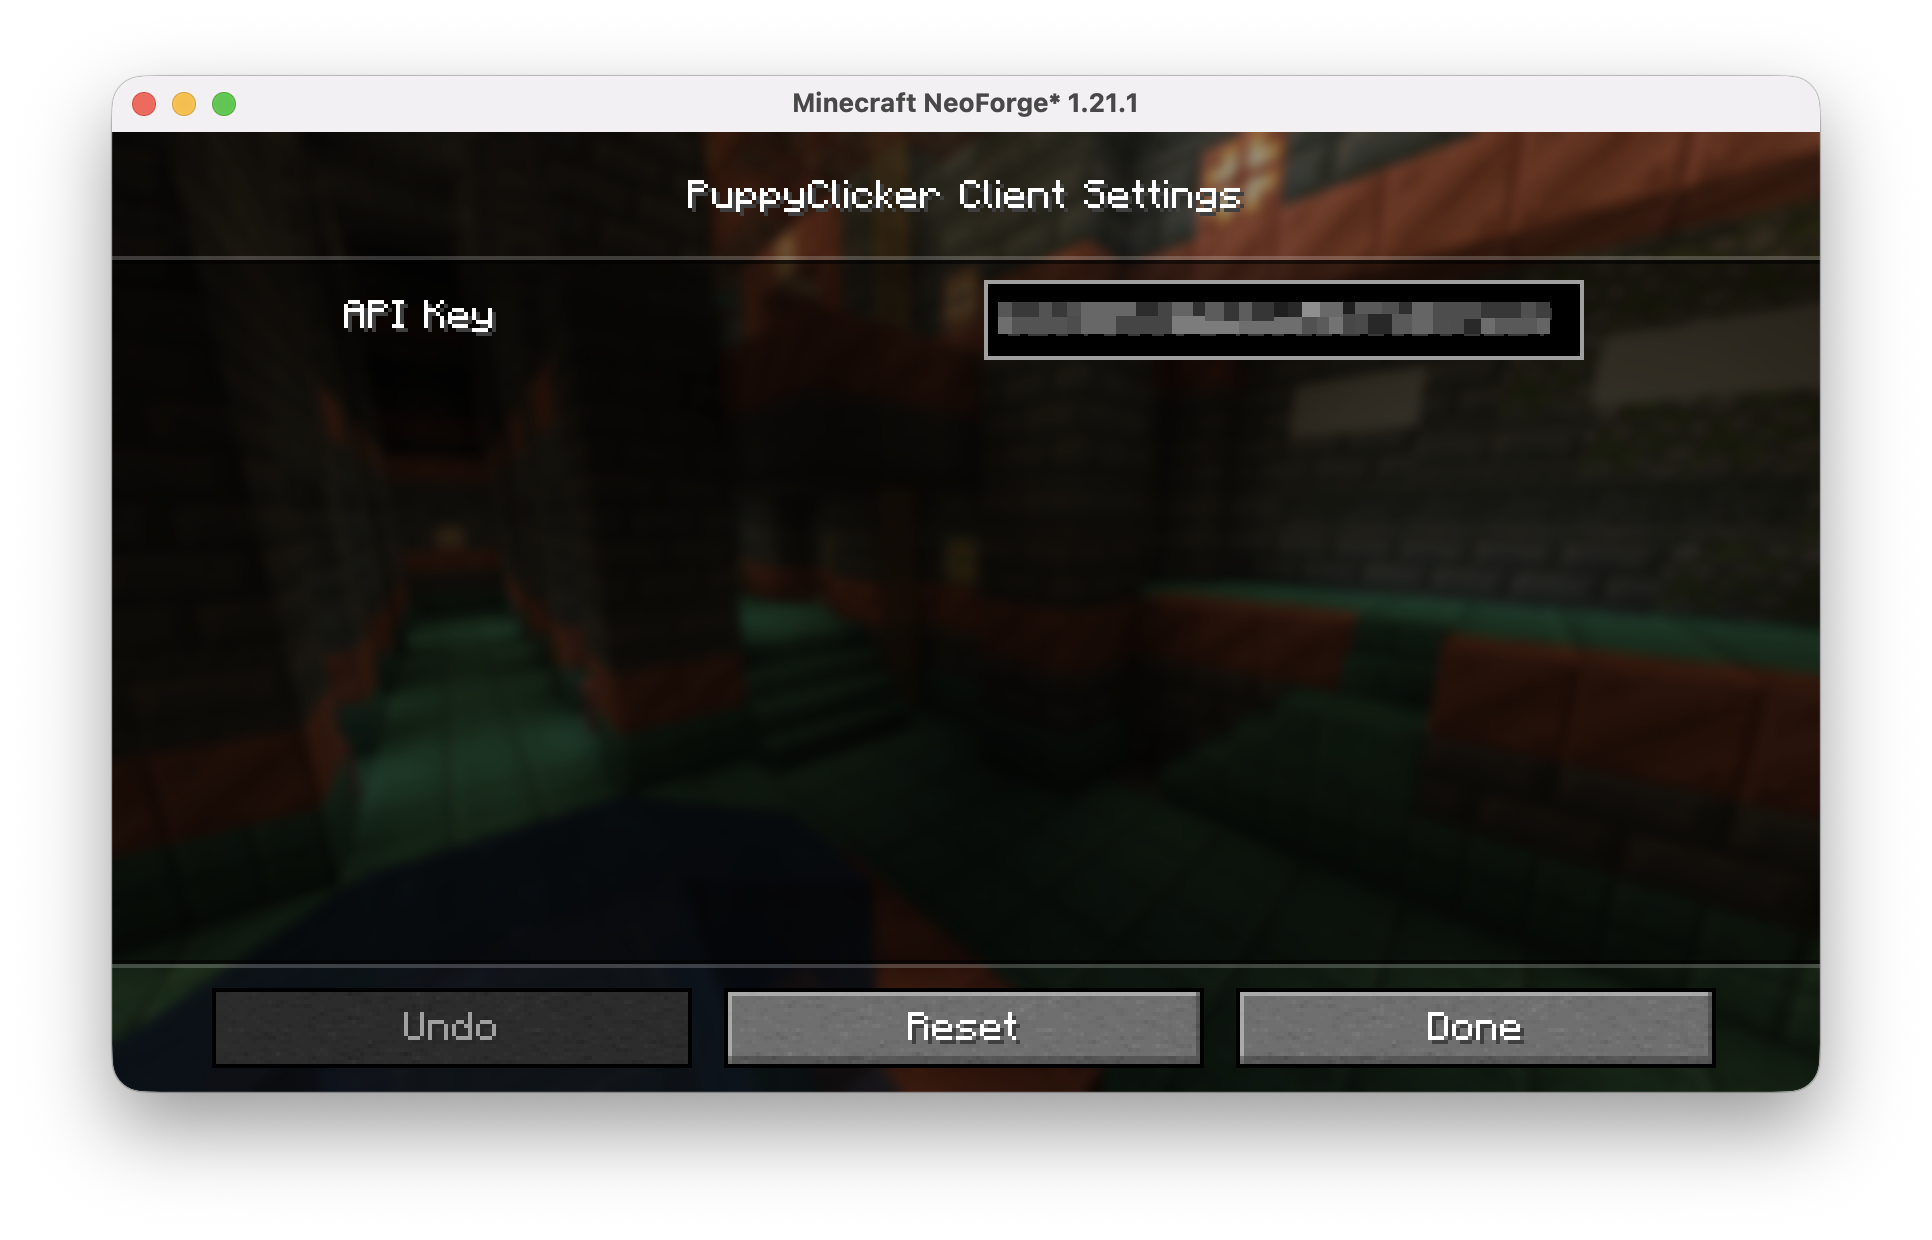
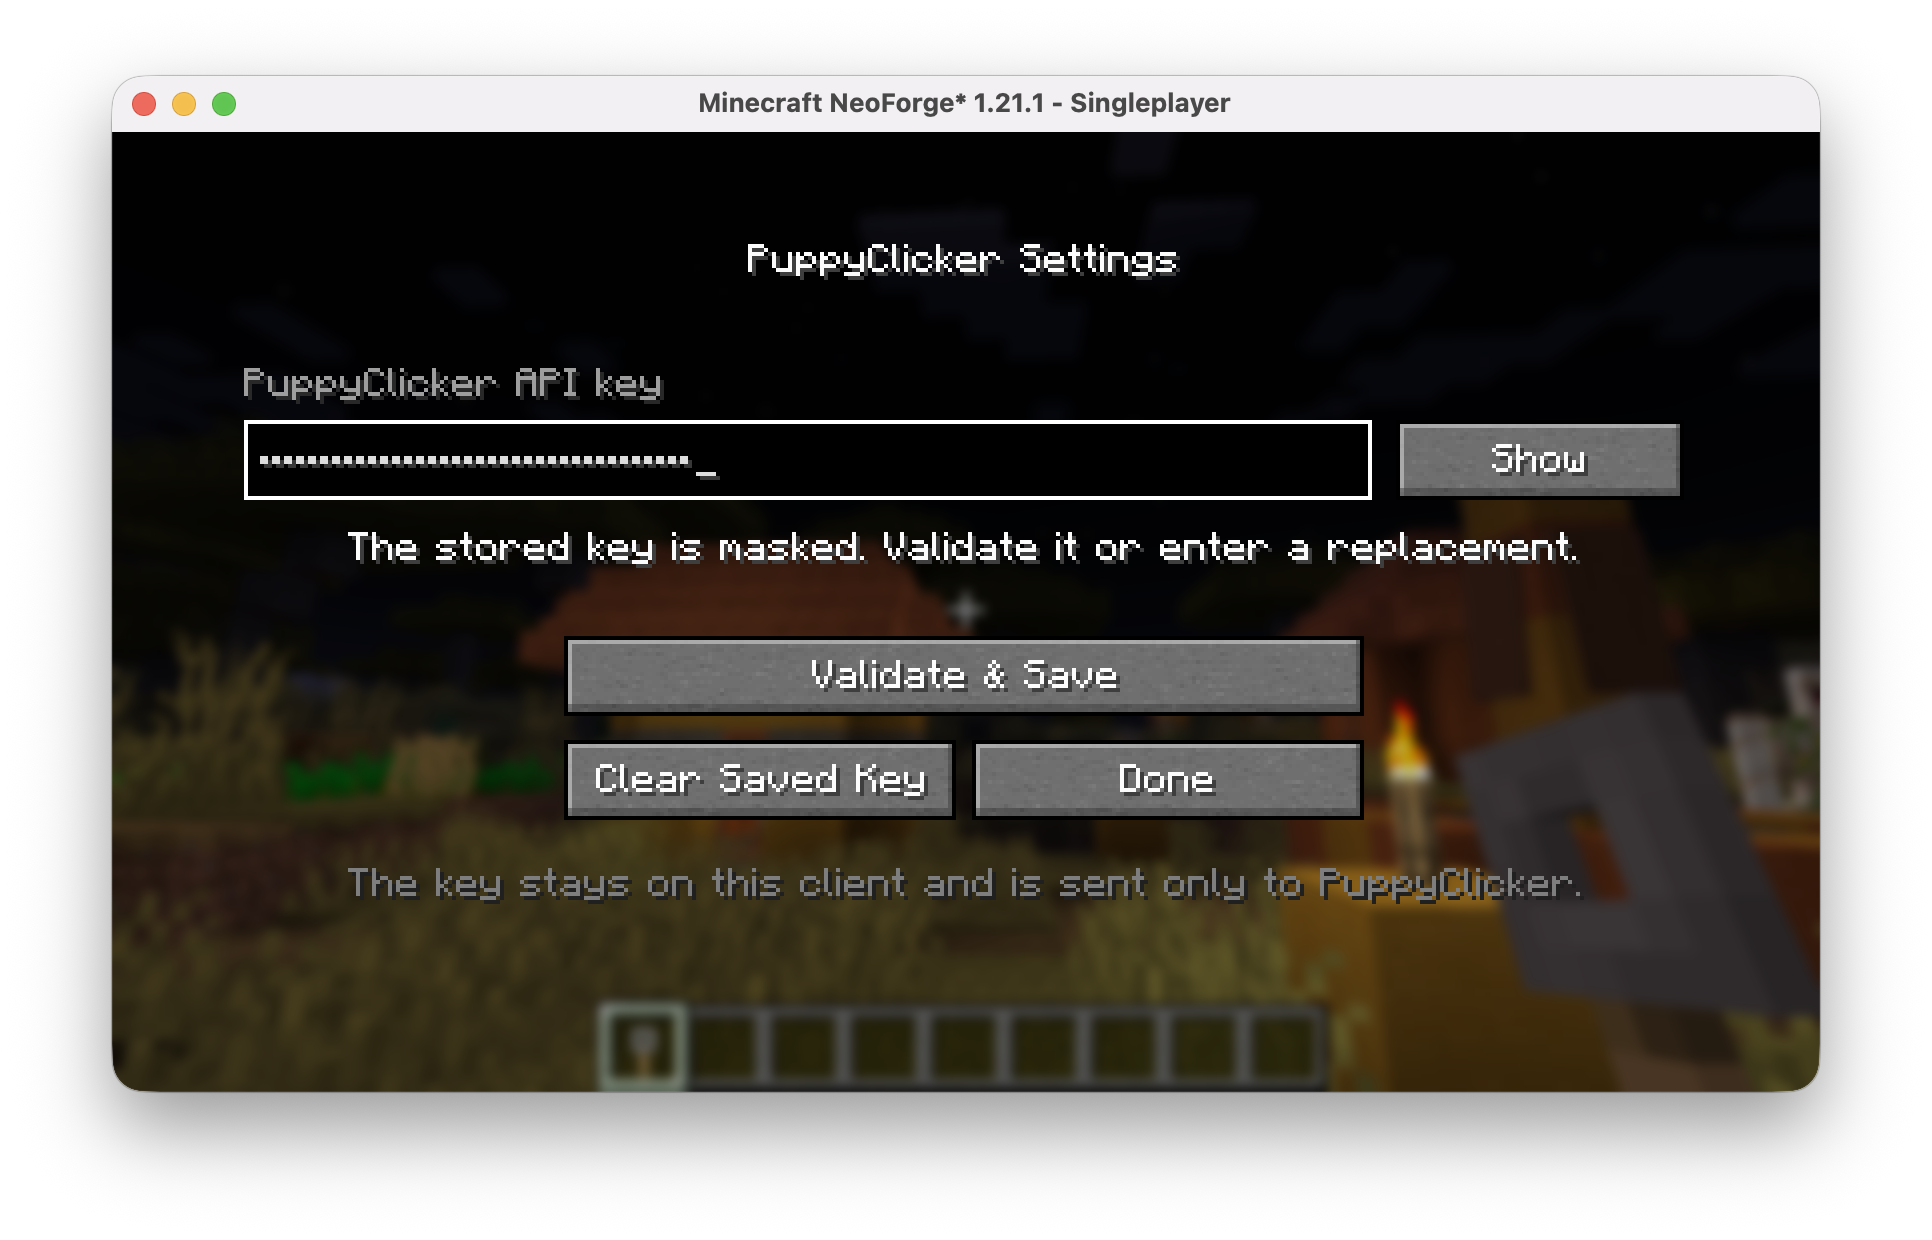
Update README screenshots and configuration overview

diff --git a/README.md b/README.md
@@ -13,6 +13,14 @@ Every outgoing action requires deliberate player input.
 
 ## At a glance
 
+### Configure and bind
+
+| Masked API-key configuration | Accepted-friend picker |
+| --- | --- |
+| ![PuppyClicker settings with a masked stored API key and validation controls](img/api-config.png) | ![The corrected friend picker with clear title, status, binding notice, and friend buttons](img/SCR-PCMC-FriendSelect.png) |
+
+### Send and confirm
+
 | Bound clicker details | PuppyClicker activity confirmation |
 | --- | --- |
 | ![A bound Puppy Clicker in the Minecraft inventory with its friend, server-sync, and consent tooltip](img/SCR-PCMC-InventoryView.png) | ![The resulting click from Minecraft in PuppyClicker's activity log](img/SCR-receivedlog.png) |
